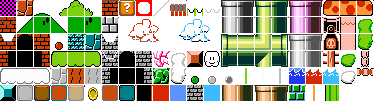
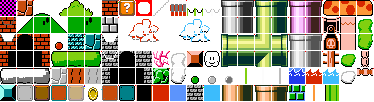
Bad white and green platforms.

Changed region(s): [[0.0, 0.5, 0.2941, 0.8235]]

diff --git a/README.md b/README.md
@@ -42,3 +42,8 @@ Tree tops
 Modified from Tiny Tree by Mirofox
 https://opengameart.org/content/tiny-tree
 License: CC0
+
+White and green platforms
+Modified from Snow Tiles by Kelvin Shadewing (http://kelvinshadewing.net)
+https://opengameart.org/content/snow-tiles-0
+License: CC-BY-SA 3.0
